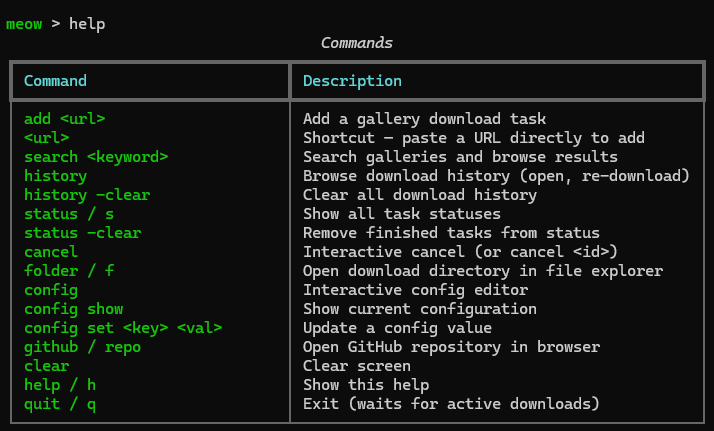
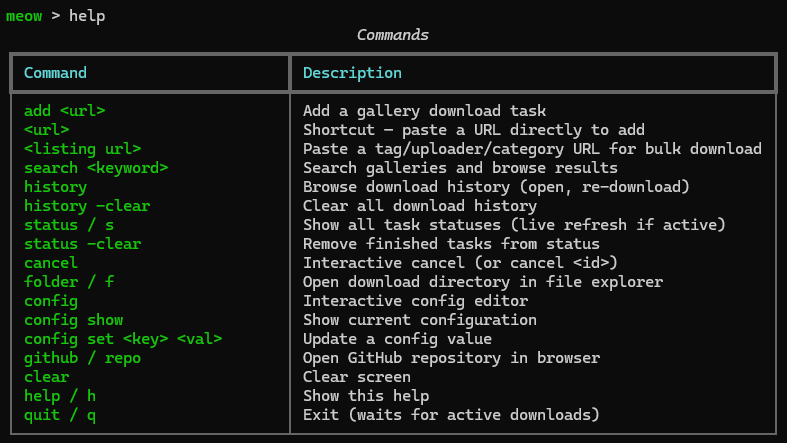
doc(readme): update readme files.

Changed region(s): [[0.0, 0.0302, 1.0, 0.9954]]

diff --git a/README.md b/README.md
@@ -10,10 +10,15 @@ A command-line based gallery downloader for E-Hentai and ExHentai with an intera
 ![Command List](./demo/CommandList.png)
 *Command list and execution*
 
+![Bulk Download](./demo/BulkDownload.png)
+*Interactive bulk download configuration*
+
 ## Features
 
 - **Interactive Shell:** An intuitive, rich-text command-line interface.
 - **Smart Downloads:** Supports standard gallery downloads and automatic torrent downloads (via embedded downloader or passing to external system clients like qBittorrent).
+- **Bulk Download:** Paste a listing URL (tag, uploader, search, etc.) to bulk download. Includes an interactive results review page, customizable fetch ranges, and advanced keyword filtering (`||`, `&&`, `!`).
+- **Live Status:** Real-time progress monitoring for active downloads.
 - **Configurable:** Fully customizable settings (download directory, parallel tasks, cookies).
 - **Auto-Environment Setup:** Easy one-click setup using the provided `.bat` file for Windows.
 

diff --git a/README_zh.md b/README_zh.md
@@ -10,10 +10,15 @@
 ![指令列表](./demo/CommandList.png)
 *指令列表與執行畫面*
 
+![批量下載](./demo/BulkDownload.png)
+*互動式批量下載設定*
+
 ## 功能特色
 
 - **互動式 Shell：** 直觀、支援豐富文字色彩的命令列介面。
 - **智慧下載：** 支援標準畫廊下載與自動 Torrent 種子下載（支援內建下載，或自動呼叫系統上的外部客戶端如 qBittorrent 等）。
+- **批量下載：** 貼上標籤、上傳者或搜尋結果等列表網址即可進行批量下載。包含互動式篩選結果頁面、可自訂抓取範圍以及進階關鍵字過濾（支援 `||`、`&&`、`!`）。
+- **即時狀態：** 即時更新下載任務進度。
 - **高度可設定：** 支援自訂下載目錄、平行任務數量及 Cookies 登入憑證。
 - **自動環境部署：** Windows 使用者可透過內建的 `.bat` 腳本實現一鍵安裝與啟動。
 

diff --git a/README_zh_cn.md b/README_zh_cn.md
@@ -10,10 +10,15 @@
 ![命令列表](./demo/CommandList.png)
 *命令列表与执行画面*
 
+![批量下载](./demo/BulkDownload.png)
+*交互式批量下载设置*
+
 ## 功能特色
 
 - **交互式 Shell：** 直观、支持丰富文字色彩的命令行界面。
 - **智能下载：** 支持标准画廊下载与自动 Torrent 种子下载（支持内置下载，或自动调用系统上的外部客户端如 qBittorrent 等）。
+- **批量下载：** 粘贴标签、上传者或搜索结果等列表网址即可进行批量下载。包含交互式筛选结果页面、可自定义抓取范围以及进阶关键字过滤（支持 `||`、`&&`、`!`）。
+- **实时状态：** 实时更新下载任务进度。
 - **高度可配置：** 支持自定义下载目录、并发任务数量及 Cookies 登录凭证。
 - **自动环境部署：** Windows 用户可通过内置的 `.bat` 脚本实现一键安装与启动。
 